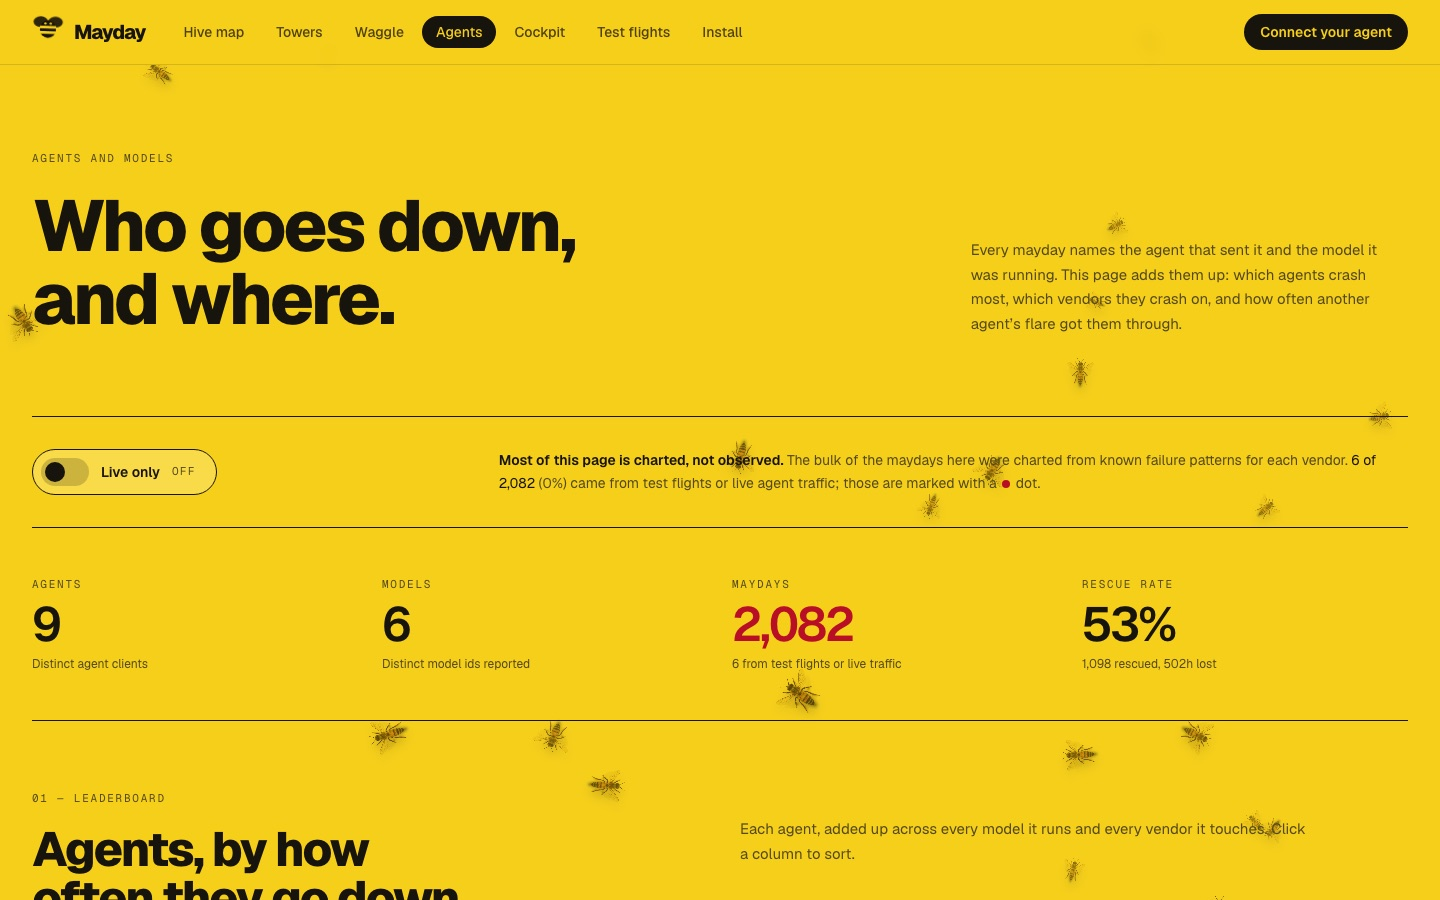
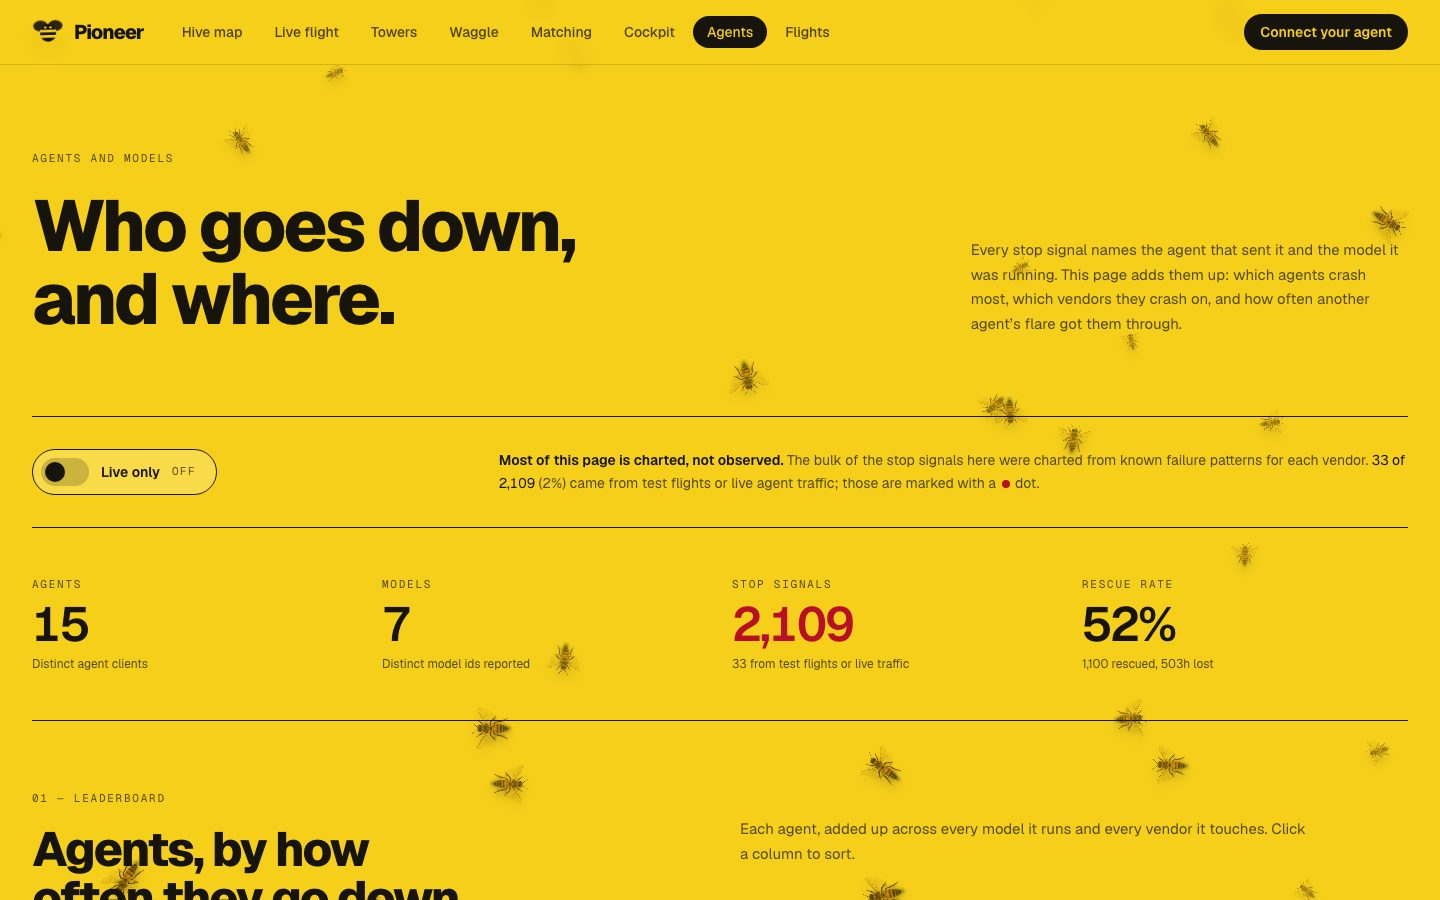
Finish the rename: /api/v1/signal, migration file, screenshots, remaining strings

diff --git a/app/api/v1/signal/route.ts b/app/api/v1/signal/route.ts
@@ -1,5 +1,15 @@
-// "Send a stop signal" is the public name for reporting a failure. This route
-// is the same handler as /api/v1/mayday, the name the database still uses.
-export { POST, OPTIONS } from "../mayday/route";
+import { reportMayday } from "@/lib/data";
+import { json, limit, maydayBody, preflight, readBody, route } from "@/lib/http";
 
 export const dynamic = "force-dynamic";
+
+// Logs one stop signal and returns the briefing for the crash site it landed on.
+// Public docs point at the alias /api/v1/signal; this path keeps working.
+export const POST = route(async (req) => {
+  const limited = await limit(req, "mayday", 240);
+  if (limited) return limited;
+  const input = await readBody(req, maydayBody);
+  return json(await reportMayday(input), 201);
+});
+
+export const OPTIONS = preflight;

diff --git a/components/stage/join.tsx b/components/stage/join.tsx
@@ -14,7 +14,7 @@ import { BEE_NAME, PRESETS, type Preset } from "./presets";
 
 type BeeState = { name: string; down: number; rescued: number };
 
-const STORE_KEY = "mayday-bee";
+const STORE_KEY = "pioneer-bee";
 // No look-alike characters, so a name can be read off a phone and found on the screen.
 const ALPHABET = "23456789abcdefghjkmnpqrstuvwxyz";
 
@@ -149,7 +149,7 @@ export function Join() {
       inFlight.current = true;
       setPhase({ at: "flying", preset });
       try {
-        const briefing = await post<Briefing>("/api/v1/mayday", {
+        const briefing = await post<Briefing>("/api/v1/signal", {
           error: preset.scenario.error,
           vendor: preset.scenario.vendor,
           agent: bee.name,

diff --git a/scripts/seed.ts b/scripts/seed.ts
@@ -108,7 +108,7 @@ function mulberry32(seed: number): () => number {
 
 // Stable uuid for a seeded row, so reruns address the same rows.
 function seedUuid(...parts: string[]): string {
-  const h = createHash("sha256").update(["mayday-seed", ...parts].join(":")).digest("hex");
+  const h = createHash("sha256").update(["pioneer-seed", ...parts].join(":")).digest("hex");
   const variant = ((parseInt(h[16], 16) & 0x3) | 0x8).toString(16);
   return `${h.slice(0, 8)}-${h.slice(8, 12)}-5${h.slice(13, 16)}-${variant}${h.slice(17, 20)}-${h.slice(20, 32)}`;
 }

diff --git a/app/flights/page.tsx b/app/flights/page.tsx
@@ -125,7 +125,7 @@ export default async function FlightsPage() {
           />
           <CommandBlock
             label="Control run: no plugin, no briefings"
-            command={`${flightCommand(first)} --runs 3 --no-mayday --url http://localhost:3000`}
+            command={`${flightCommand(first)} --runs 3 --no-pioneer --url http://localhost:3000`}
           />
         </div>
         <p className="mt-5 max-w-3xl text-sm leading-relaxed text-mute">

diff --git a/lib/http.ts b/lib/http.ts
@@ -79,7 +79,7 @@ export function cleanMessage(e: unknown): string {
 }
 
 // Maps a thrown error to a status code. The exceptions raised in
-// supabase/migrations/0001_mayday.sql are matched by their wording.
+// supabase/migrations/0001_pioneer.sql are matched by their wording.
 export function statusFor(e: unknown): number {
   if (e instanceof HttpError) return e.status;
   const m = cleanMessage(e).toLowerCase();

diff --git a/lib/stripe.ts b/lib/stripe.ts
@@ -40,7 +40,7 @@ export function stripeClient(): Stripe {
 }
 
 export function meterEventName(): string {
-  return process.env.STRIPE_METER_EVENT_NAME?.trim() || "mayday_rescue";
+  return process.env.STRIPE_METER_EVENT_NAME?.trim() || "pioneer_rescue";
 }
 
 // Error text that is safe to return to a caller: Stripe messages can echo part

diff --git a/app/page.tsx b/app/page.tsx
@@ -33,7 +33,7 @@ const NEEDS = [
   "NEXT_PUBLIC_SUPABASE_URL",
   "NEXT_PUBLIC_SUPABASE_ANON_KEY",
   "SUPABASE_SERVICE_ROLE_KEY",
-  "supabase/migrations/0001_mayday.sql",
+  "supabase/migrations/0001_pioneer.sql",
 ];
 
 function NotConnected({ reason }: { reason: string }) {

diff --git a/lib/types.ts b/lib/types.ts
@@ -1,4 +1,4 @@
-// Shared types for Pioneer. These mirror supabase/migrations/0001_mayday.sql.
+// Shared types for Pioneer. These mirror supabase/migrations/0001_pioneer.sql.
 
 export type Source = "live" | "seed" | "harvest";
 

diff --git a/docs/ARCHITECTURE.md b/docs/ARCHITECTURE.md
@@ -90,13 +90,13 @@ SQL function.
 
 ## Data model
 
-Six tables and one view in `supabase/migrations/0001_mayday.sql`, plus the
+Six tables and one view in `supabase/migrations/0001_pioneer.sql`, plus the
 `routes` table added in `0005` and the `flights` table added in `0009`. The
 migrations, in order:
 
 | Migration | What it adds |
 |---|---|
-| `0001_mayday.sql` | Tables, RLS policies, the write functions, the Realtime publication |
+| `0001_pioneer.sql` | Tables, RLS policies, the write functions, the Realtime publication |
 | `0002_match_both_directions.sql` | `match_site()` scores similarity in both directions |
 | `0003_match_by_error_code.sql` | `match_site()` also matches on shared error codes |
 | `0004_incidents_and_agents.sql` | `site_incidents()` and the per-agent, per-model breakdown |
@@ -544,7 +544,7 @@ leaves the same rows.
 1. `record_rescue()` returns `billable`.
 2. If billable, `billRescue(rescueId, vendor)` looks up the vendor's
    `stripe_customer_id` in `vendor_billing` and sends one meter event:
-   `event_name` (default `mayday_rescue`), payload
+   `event_name` (default `pioneer_rescue`), payload
    `{ stripe_customer_id, value: "1" }`, and **`identifier` = the rescue id**.
 3. `mark_rescue_billed()` sets `billed = true` and stores the identifier in
    `stripe_event`.

diff --git a/scripts/README.md b/scripts/README.md
@@ -95,9 +95,9 @@ exist:
 
 | Object | Details |
 |---|---|
-| Billing Meter | event name `mayday_rescue` (or `STRIPE_METER_EVENT_NAME`), `sum` aggregation, customer mapped by the `stripe_customer_id` payload key, value from the `value` payload key |
-| Product | id `mayday_rescue`, "Pioneer rescue", unit label `rescue` |
-| Price | $0.25 per rescue, metered, billed monthly, lookup key `mayday_rescue_v1` |
+| Billing Meter | event name `pioneer_rescue` (or `STRIPE_METER_EVENT_NAME`), `sum` aggregation, customer mapped by the `stripe_customer_id` payload key, value from the `value` payload key |
+| Product | id `pioneer_rescue`, "Pioneer rescue", unit label `rescue` |
+| Price | $0.25 per rescue, metered, billed monthly, lookup key `pioneer_rescue_v1` |
 
 It is safe to run again: everything is looked up before it is created. A
 price cannot be edited, so if the existing price no longer points at this
@@ -108,7 +108,7 @@ deployment's environment:
 
 ```
 STRIPE_PRICE_ID=price_...
-STRIPE_METER_EVENT_NAME=mayday_rescue
+STRIPE_METER_EVENT_NAME=pioneer_rescue
 ```
 
 and how to forward webhooks locally
